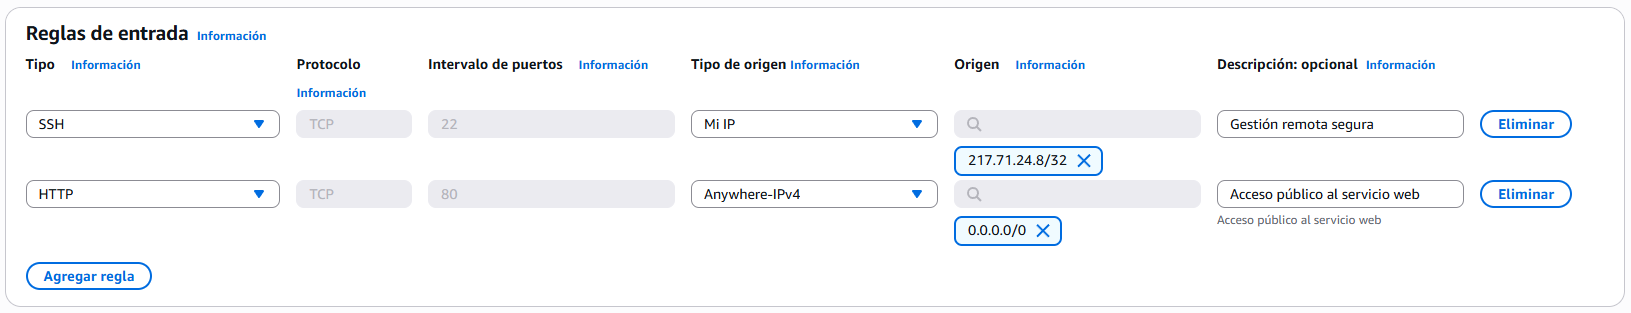
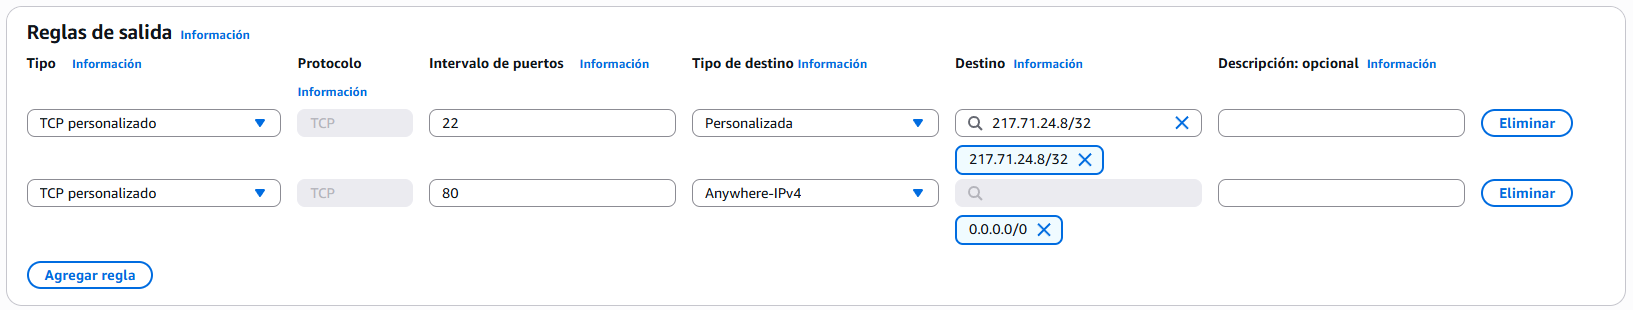
pr0301

diff --git a/ut03/pr0301/pr0301.md b/ut03/pr0301/pr0301.md
@@ -15,36 +15,81 @@ En **Reglas de entrada**, clicamos en el botón de **Agregar regla** 2 veces y p
 
 En **Reglas de salida**, lo dejamos por defecto y más abajo clicamos en el botón de **Crear grupo de seguridad**.
 
-
-
-
-
-
-
-
-
-
-
-
-
-
-
-
-
-
-
-
-
-
-
-
-
-
-
-
 ## Paso 2: Análisis del Script de User Data
+Al crear la instancia, al final del todo pegaremos el siguiente script:
+```bash
+#!/bin/bash
+# -----------------------------------------------------------------
+# 1. Actualización e instalación del servidor web Apache
+# -----------------------------------------------------------------
+dnf update -y
+dnf install -y httpd
+
+# Habilitar e iniciar el servicio en el arranque de systemd
+systemctl enable httpd
+systemctl start httpd
+
+# -----------------------------------------------------------------
+# 2. Obtención de metadatos mediante IMDSv2
+# -----------------------------------------------------------------
+# Paso A: Generar token de sesión válido por 6 horas (21600 segundos)
+TOKEN=$(curl -s -X PUT "http://169.254.169.254/latest/api/token" \
+  -H "X-aws-ec2-metadata-token-ttl-seconds: 21600")
+
+# Paso B: Consultar metadatos usando el token en la cabecera HTTP
+INSTANCE_ID=$(curl -s -H "X-aws-ec2-metadata-token: $TOKEN" \
+  http://169.254.169.254/latest/meta-data/instance-id)
+
+INSTANCE_TYPE=$(curl -s -H "X-aws-ec2-metadata-token: $TOKEN" \
+  http://169.254.169.254/latest/meta-data/instance-type)
+
+AVAILABILITY_ZONE=$(curl -s -H "X-aws-ec2-metadata-token: $TOKEN" \
+  http://169.254.169.254/latest/meta-data/placement/availability-zone)
+
+PRIVATE_IP=$(curl -s -H "X-aws-ec2-metadata-token: $TOKEN" \
+  http://169.254.169.254/latest/meta-data/local-ipv4)
+
+# -----------------------------------------------------------------
+# 3. Creación del archivo index.html dinámico
+# -----------------------------------------------------------------
+cat <<EOF > /var/www/html/index.html
+<!DOCTYPE html>
+<html lang="es">
+<head>
+    <meta charset="UTF-8">
+    <title>Servidor Web EC2 - ASIR Cloud</title>
+    <style>
+        body { font-family: 'Segoe UI', Tahoma, Geneva, Verdana, sans-serif; background-color: #f4f6f9; margin: 40px; color: #333; }
+        .card { background: white; max-width: 650px; margin: 0 auto; padding: 25px; border-radius: 8px; box-shadow: 0 4px 6px rgba(0,0,0,0.1); border-top: 5px solid #FF9900; }
+        h1 { color: #232F3E; font-size: 24px; margin-bottom: 20px; }
+        table { width: 100%; border-collapse: collapse; margin-top: 15px; }
+        th, td { text-align: left; padding: 12px; border-bottom: 1px solid #e1e4e8; }
+        th { background-color: #f8f9fa; color: #555; }
+        .badge { background: #e8f5e9; color: #2e7d32; padding: 4px 8px; border-radius: 4px; font-weight: bold; font-family: monospace; }
+    </style>
+</head>
+<body>
+    <div class="card">
+        <h1>Servidor Web Aprovisionado con User Data</h1>
+        <p>Estado del servicio: <span class="badge">ACTIVO (HTTPD)</span></p>
+        <table>
+            <tr><th>Parámetro</th><th>Valor consultado (IMDSv2)</th></tr>
+            <tr><td><strong>ID de la Instancia</strong></td><td>$INSTANCE_ID</td></tr>
+            <tr><td><strong>Tipo de Instancia</strong></td><td>$INSTANCE_TYPE</td></tr>
+            <tr><td><strong>Zona de Disponibilidad (AZ)</strong></td><td>$AVAILABILITY_ZONE</td></tr>
+            <tr><td><strong>Dirección IP Privada</strong></td><td>$PRIVATE_IP</td></tr>
+        </table>
+    </div>
+</body>
+</html>
+EOF
+```
 
 ## Paso 3: Lanzamiento de la Instancia EC2
+ir a ec2, lanzar instancia, elegir amazon linux, tipo de instancia t3.micro, par de claves, usar la que tenemos, configuracion de red, sleccionar grupo seg existente, version de metadatos solo v2, datos de usuario, poner script del ejercicio
+
+
+
 
 ## Paso 4: Verificación y resolución de problemas
 
